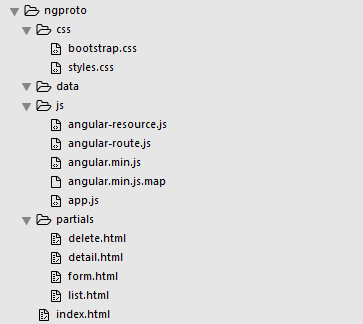
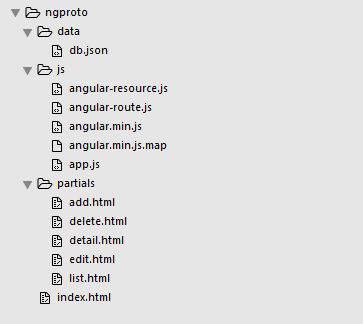
prototyping angularjs with json-server and http-server

Changed region(s): [[0.0303, 0.0, 0.4545, 1.0]]

diff --git a/_posts/2015-06-30-prototyping-angularjs-project-with-httpserver-and-jsonserver.md b/_posts/2015-06-30-prototyping-angularjs-project-with-httpserver-and-jsonserver.md
@@ -4,7 +4,7 @@ title: "Prototyping Angularjs Project with http-server and json-server"
 date: 2015-06-30
 tags: [angularjs]
 image: /images/pimg/ng.png
-status: draft
+status: published
 --- 
 
 ## Introduction
@@ -13,7 +13,7 @@ Building an angularjs prototype can be hard, actually it's like you're already c
 ## Setup
 For this article, I assume you're working on nodejs environment. 
 
-### The Layout
+#### The Layout
 So first, install ```http-server``` globally, it's a zero-configuration node module that can magically load your static files in the browser. How cool is that? Working node website without using and configuring framework like Expressjs.
 
 ~~~sh
@@ -25,8 +25,7 @@ After installing, let's construct our files and folders. I created a folder name
 {:.text-center}
 ![npminit](/images/post/post-6-1.png)
 
-- **index.html** is the will that will be served to the browser. It's a basic website setup with all the css and angularjs included. On the body, I instantiate our angularjs app called ``taskApp`` and has ```ng-view``` where we can display the appropriate partials based on the user's action. The view was also wrapped in a bootstrap layout
-- **css** folder contains all css related files. I'll be using ```bootstrap``` to help me style this app.
+- **index.html** is the will that will be served to the browser. It's a basic website setup with all the css and angularjs included. On the body, I instantiate our angularjs app called ``taskApp`` and has ```ng-view``` where we can display the appropriate partials based on the user's action. The view was also wrapped in a bootstrap layout 
 - **js** folder contains all javascript files. I already added the necessary angularjs for this application. There's also **app.js** file where we will be writing our angularjs code.
 - **partials** folder contains our view templates.  
 - **data** folder will be our database container which we will setup later in the next section.
@@ -40,7 +39,7 @@ Contents of **index.html** file.
 <head>
 	<meta charset="UTF-8">
 	<title>Prototyping Angularjs</title>
-	<link rel="stylesheet" href="css/bootstrap.css">
+	<link rel="stylesheet" href="https://maxcdn.bootstrapcdn.com/bootstrap/3.3.5/css/bootstrap.min.css">
 	<link rel="stylesheet" href="css/styles.css">
 	<script src="js/angular.min.js"></script>
 	<script src="js/angular.resource.js"></script>
@@ -70,66 +69,129 @@ Now open your browser, visite ```http://localhost:8080/``` and boom!!! Nothing!!
 
 
 
-### The REST API
+#### The REST API
 Second module that you need to install is the ```json-server```. This module gives you an instant REST API without setting up mongodb.
 
 ~~~sh
 npm install json-server -g
 ~~~
 
-After installing, it's time to setup. Create a new json file called ```db.json``` inside the **data** folder. On that file, we'll create our schema.
+After installing, it's time to setup. Create a new json file called ```db.json``` inside the **data** folder. On that file, we'll create our schema. It's just simple contact information including **name** and **number**, you can add other informations if you like.
 
 {:.mb0}
 Contents of **db.json** file.
 
 ~~~javascript
 {
-	"tasks": [
-		{ "id": 1, "name": "Install http-server", "status": "done" },
-		{ "id": 2, "name": "Install json-server", "status": "done" },
-		{ "id": 3, "name": "Setup files and folders", "status": "done" },
-		{ "id": 4, "name": "Setup Rest api", "status": "todo" },
-		{ "id": 5, "name": "Create angular CRUD", "status": "todo" },
-		{ "id": 6, "name": "Test app", "status": "todo" }
-	]
+  "contacts": [
+    { "id":1, "name":"Spongebob", "number":"1234432534" },
+    { "id":2, "name":"Patrick", "number":"986786886" },
+    { "id":3, "name":"Squidwards", "number":"2345556709" },
+    { "id":4, "name":"Mr. Krabs", "number":"0867545354" }
+  ]
 }
 ~~~ 
 
-Our database contains list of task. To test this, open another terminal and cd to the **data** directory and type ```json-server db.json``` then enter.
+Our database contains list of contacts. To test this, open another terminal and cd to the **data** directory and type ```json-server db.json``` then enter.
 
 ~~~sh
 json-server db.json
 ~~~
 
-Now open your browser and visit ```http://localhost:3000/tasks``` to view all out **task**.
+Now open your browser and visit ```http://localhost:3000/contacts``` to view all our **contacts**.
 
-To view a task with specific ```id```, just add ```/id_number``` in the url like ```http://localhost:3000/tasks/1```
+To view a task with specific ```id```, just add ```/id_number``` in the url like ```http://localhost:3000/contacts/1```
 
 Now we have a REST api. [You can learn more about json-server here](https://github.com/typicode/json-server)
 
 ## Boostraping our Angularjs Application
 
-So after all these setup, let's now build our angularjs application by writing some angularjs code in ```app.js``` . 
+So after all these setup, let's now build our angularjs application by writing some code in ```app.js``` . 
 
 ~~~javascript
 'use strict';
 
-angular.module('taskApp', ['ngRoute', 'ngResource'])
+angular.module('contactApp', ['ngRoute', 'ngResource'])
 	.config()
 	.factory()
 	.controller()
 ~~~ 
-
+ 
 You may have done it in a different way but I like to start my angularjs code this way. First instantiate my application name with ```angular.module``` together with the dependency modules. Then setup the **urls** in ```config()```, followed by creating the restful functionality in ```factory()``` service, and then create the **controllers**.
+
+### URL Configuration - .config()
+
+Let's start configuring our URLs. We'll create these pages inside our ```.config``` using angular's ```$routeProvider```:
+
+- ```"/"``` page to display all our contacts
+- ```"/add"``` page to display the form for adding new contact
+- ```"/1"``` to display a single contact item with its other information
+- ```"/1/edit"``` to display the form for editing contact
+
+~~~javascript
+.config(function($routeProvider){
+	$routeProvider
+		.when('/', {
+			controller: 'listCtrl',
+			templateUrl: '../partials/list.html'
+		})
+		.when('/add', {
+			controller: 'addCtrl',
+			templateUrl: '../partials/add.html'
+		})
+		.when('/:contactid', {
+			controller: 'detailCtrl',
+			templateUrl: '../partials/detail.html'
+		}) 
+		.when('/:contactid/edit', {
+			controller: 'editCtrl',
+			templateUrl: '../partials/edit.html'
+		}) 
+		.otherwise({
+			redirectTo: '/'
+		});
+})
+~~~
+
+```$routeProvider``` has a ```.when()``` method which adds a new route in the ```$route``` service. This method accepts 2 parameters, **path** and **route properties**. When **path** matches the current URL, it will assign the **route properties** to ```$route.current```. So in our config setup, when viewing our index page which is the ```'/'``` url, ```$routeProvider``` checks if ```'/'``` was declared and when matched it will assign the **route properties** to the current page. We will now in the scope of **listCtrl** and the content of our ```ng-view``` will be swapped with the value of ```templateUrl``` which happens to be **list.html**
+
+Learn more about [$routeProvider here](https://docs.angularjs.org/api/ngRoute/provider/$routeProvider).
+
+### REST Service - .factory()
 
 For the basic CRUD (create, read, update, delete) functionality, I'll be using angularjs' service with ```$resource```. 
 
 {:.alert.alert-warning}
 The ```ngResource``` module is not part of angular's core. It's in a separate file that you need to download and include in your html.
 
+~~~javascript
+.factory('ContactData', ['$resource', function($resource){
+	return $resource('http://localhost:3000/contacts/:contactid');
+}])
+~~~
+
+That's it!!! We wrapped ```$resource``` in a **factory** service so we can reuse it inside of our controllers later.
+
+Learn more about [$resource here](https://docs.angularjs.org/api/ngResource/service/$resource).
+
+
 ## The Basic Angular CRUD
 
 ### Displaying Task Item
+
+When we are viewing our index page which is ```"/"```, we will be using the ```listCtrl``` controller and ```partials/list.html``` template. So let's create them.
+
+~~~javascript
+.controller('listCtrl', function($scope, ContactData){
+	$scope.contacts = [];
+
+	ContactData.query(function(data){
+		$scope.contacts = data;
+	});  
+})
+~~~
+
+In this controller we 
 
 ### Adding New Task
 
